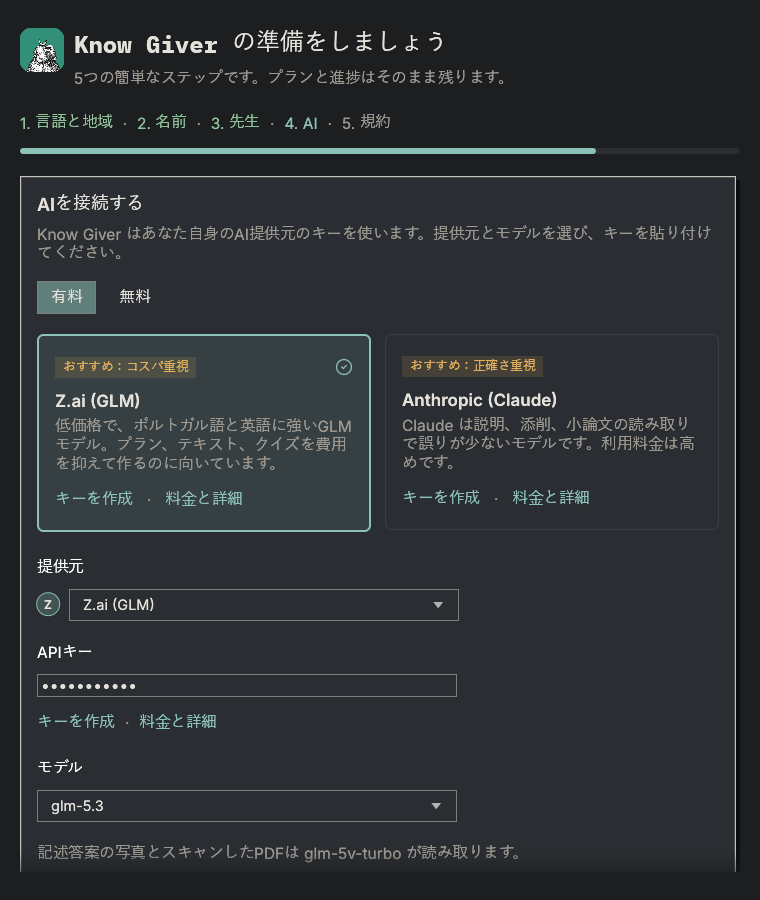
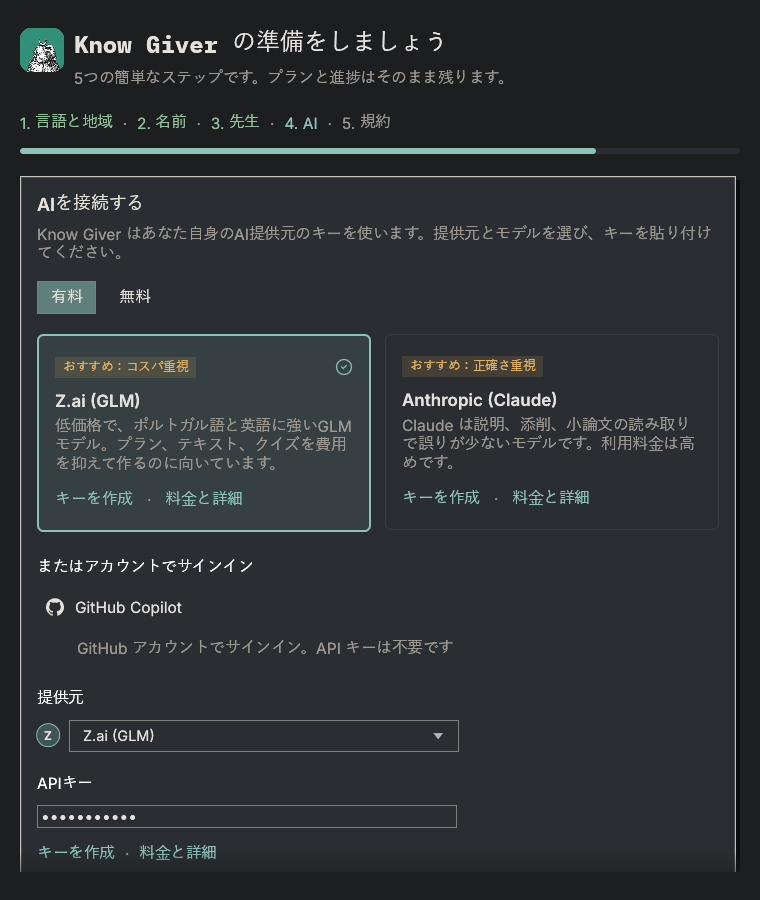
feat(ui): GitHub Copilot sign-in shown in the AI step's Paid tab

diff --git a/crates/ui/src/screens/setup.rs b/crates/ui/src/screens/setup.rs
@@ -288,6 +288,29 @@ fn paid_recommendations(ui: &mut egui::Ui, setup: &mut SetupUi) {
         });
     });
     ui.add_space(16.0);
+
+    // Services the student signs in to with an account instead of a key.
+    let accounts: Vec<&'static kg_engine::Provider> = kg_engine::PROVIDERS
+        .iter()
+        .filter(|p| p.offered(mainland) && p.id == "copilot")
+        .collect();
+    if !accounts.is_empty() {
+        ui.label(RichText::new(t!("setup.ai.account_title")).strong());
+        ui.add_space(4.0);
+        for provider in accounts {
+            let selected = setup.provider.map(|x| x.id) == Some(provider.id);
+            if crate::provider_logo::row(ui, provider, &provider_name(provider), None, selected)
+                .clicked()
+            {
+                setup.pick_provider(provider);
+            }
+            ui.horizontal(|ui| {
+                ui.add_space(40.0);
+                widgets::hint(ui, &t!("setup.ai.account_note"));
+            });
+        }
+        ui.add_space(16.0);
+    }
 }
 
 /// Services with a free plan where the app is used: the model the plan

diff --git a/crates/ui/src/provider_logo.rs b/crates/ui/src/provider_logo.rs
@@ -19,7 +19,7 @@ fn source(id: &str) -> Option<ImageSource<'static>> {
         "qwen" | "bailian" => include_image!("../assets/providers/qwen.svg"),
         "moonshot" | "moonshot-cn" => include_image!("../assets/providers/kimi.svg"),
         "lmstudio" => include_image!("../assets/providers/lmstudio.svg"),
-        "github" => include_image!("../assets/providers/github.svg"),
+        "github" | "copilot" => include_image!("../assets/providers/github.svg"),
         _ => return None,
     })
 }

diff --git a/CHANGELOG.md b/CHANGELOG.md
@@ -17,6 +17,8 @@ All notable changes to Know Giver. Format based on
   state, backend enforcement, saved OCR preferences, Vulkan device selection and CPU fallback.
 
 ### Changed
+- The first run's Paid tab shows GitHub Copilot under "Or sign in with an account", with
+  the GitHub logo, instead of only inside the full provider list.
 - Photos stay on the device when local OCR is selected; Copilot always uses local OCR.
 - When the local OCR model is installed and selected, `llama-server` now starts in the
   background with the app and stays available for image reading until the app closes.
